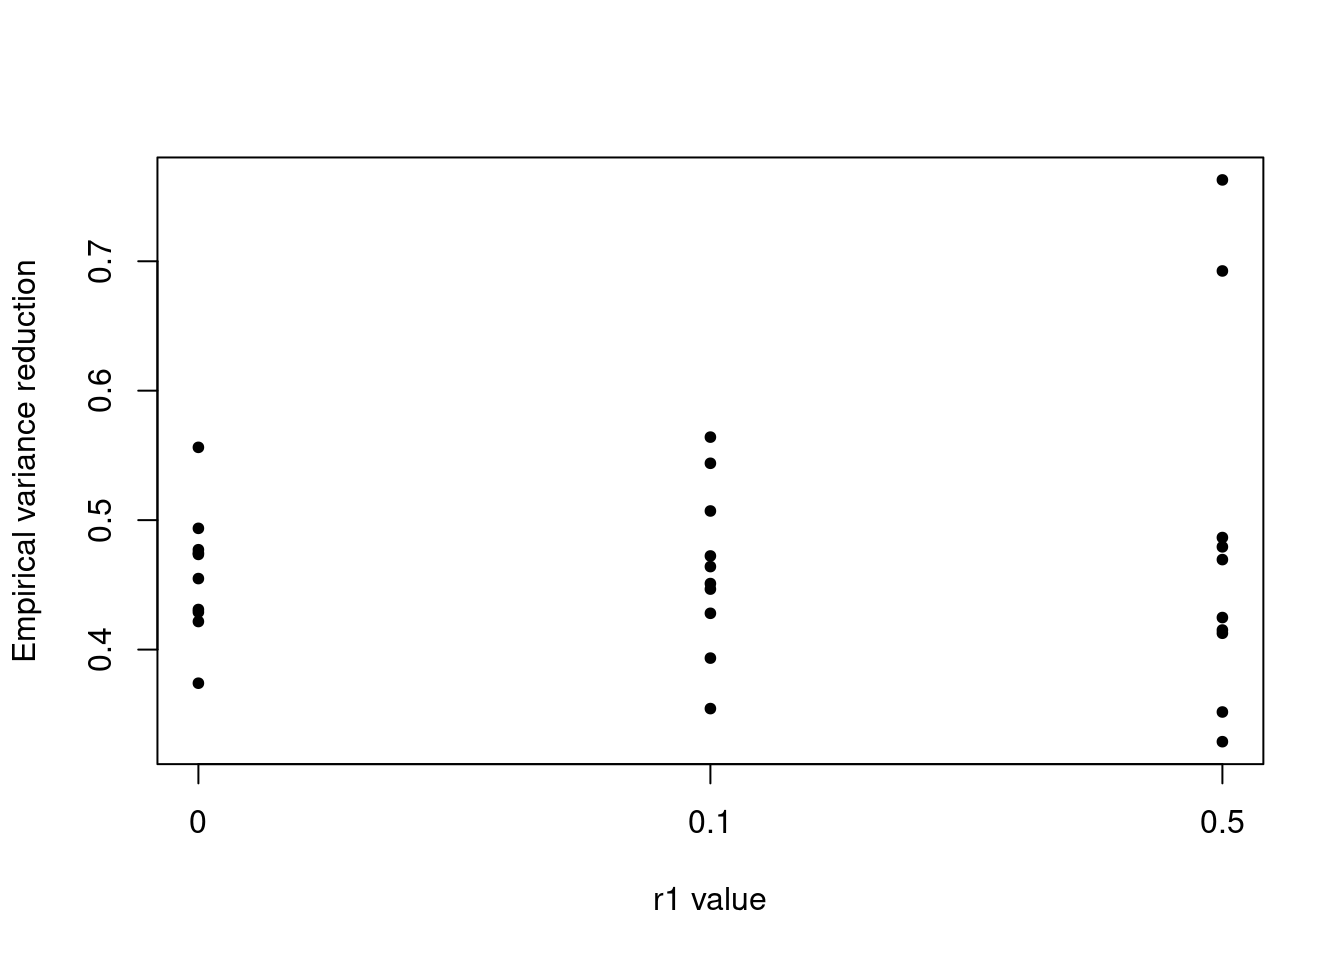
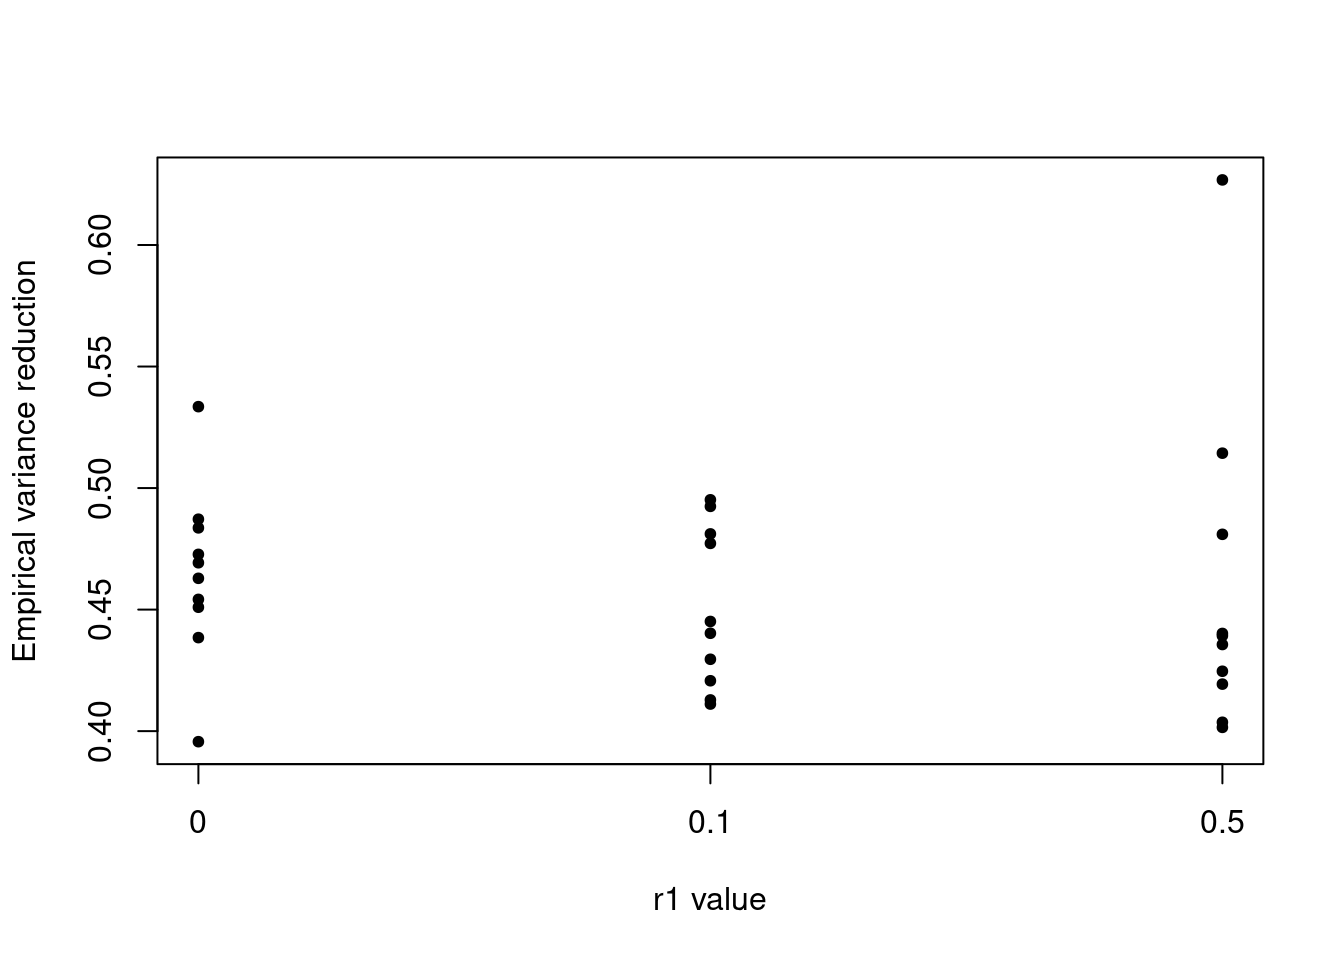
Build site.

diff --git a/docs/calibration_trio.html b/docs/calibration_trio.html
@@ -522,15 +522,15 @@ project makes it easier to run your code on other machines.</p>
 <div class="panel panel-default">
 <div class="panel-heading">
 <p class="panel-title">
-<a data-toggle="collapse" data-parent="#workflowr-checks" href="#strongRepositoryversionstrongahrefhttpsgithubcomyunqiyang0215simulationcalibratedmrtree690433243eab6240acecfb7668e70a19e5a82b51targetblank6904332a">
+<a data-toggle="collapse" data-parent="#workflowr-checks" href="#strongRepositoryversionstrongahrefhttpsgithubcomyunqiyang0215simulationcalibratedmrtreed1a6b1ea32246c15855c3a44555cfa48fc14144ftargetblankd1a6b1ea">
 <span class="glyphicon glyphicon-ok text-success"
 aria-hidden="true"></span> <strong>Repository version:</strong>
-<a href="https://github.com/yunqiyang0215/simulation-calibrated-mr/tree/690433243eab6240acecfb7668e70a19e5a82b51" target="_blank">6904332</a>
+<a href="https://github.com/yunqiyang0215/simulation-calibrated-mr/tree/d1a6b1ea32246c15855c3a44555cfa48fc14144f" target="_blank">d1a6b1e</a>
 </a>
 </p>
 </div>
 <div
[2 lines of base64/hex data omitted]
 class="panel-collapse collapse">
 <div class="panel-body">
 <p>
@@ -540,7 +540,7 @@ reproducibility.
 </p>
 <p>
 The results in this page were generated with repository version
-<a href="https://github.com/yunqiyang0215/simulation-calibrated-mr/tree/690433243eab6240acecfb7668e70a19e5a82b51" target="_blank">6904332</a>.
+<a href="https://github.com/yunqiyang0215/simulation-calibrated-mr/tree/d1a6b1ea32246c15855c3a44555cfa48fc14144f" target="_blank">d1a6b1e</a>.
 See the <em>Past versions</em> tab to see a history of the changes made
 to the R Markdown and HTML files.
 </p>
@@ -608,6 +608,40 @@ Message
 </tr>
 </thead>
 <tbody>
+<tr>
+<td>
+Rmd
+</td>
+<td>
+<a href="https://github.com/yunqiyang0215/simulation-calibrated-mr/blob/d1a6b1ea32246c15855c3a44555cfa48fc14144f/analysis/calibration_trio.Rmd" target="_blank">d1a6b1e</a>
+</td>
+<td>
+yunqi yang
+</td>
+<td>
+2024-04-14
+</td>
+<td>
+wflow_publish("analysis/calibration_trio.Rmd")
+</td>
+</tr>
+<tr>
+<td>
+html
+</td>
+<td>
+<a href="https://rawcdn.githack.com/yunqiyang0215/simulation-calibrated-mr/d682b610db416de310c9468715dccd13def03762/docs/calibration_trio.html" target="_blank">d682b61</a>
+</td>
+<td>
+yunqi yang
+</td>
+<td>
+2024-04-14
+</td>
+<td>
+Build site.
+</td>
+</tr>
 <tr>
 <td>
 html
@@ -958,7 +992,7 @@ yunqi yang
 </div>
 <div id="logistic-regression-exposure-trait" class="section level3">
 <h3>3. Logistic regression: exposure trait</h3>
-<pre class="r"><code>res = readRDS(&quot;/project2/mstephens/yunqiyang/calibrated_mr/sim_parametric202404/trio_logistic/res.rds&quot;)</code></pre>
+<pre class="r"><code>res = readRDS(&quot;/project2/mstephens/yunqiyang/calibrated_mr/sim_parametric202404/trio_logistic_cutoff1.5/res.rds&quot;)</code></pre>
 <pre class="r"><code>par(mfrow = c(10,2))
 r1 = unique(res$sim_data.r1)
 p = 10
